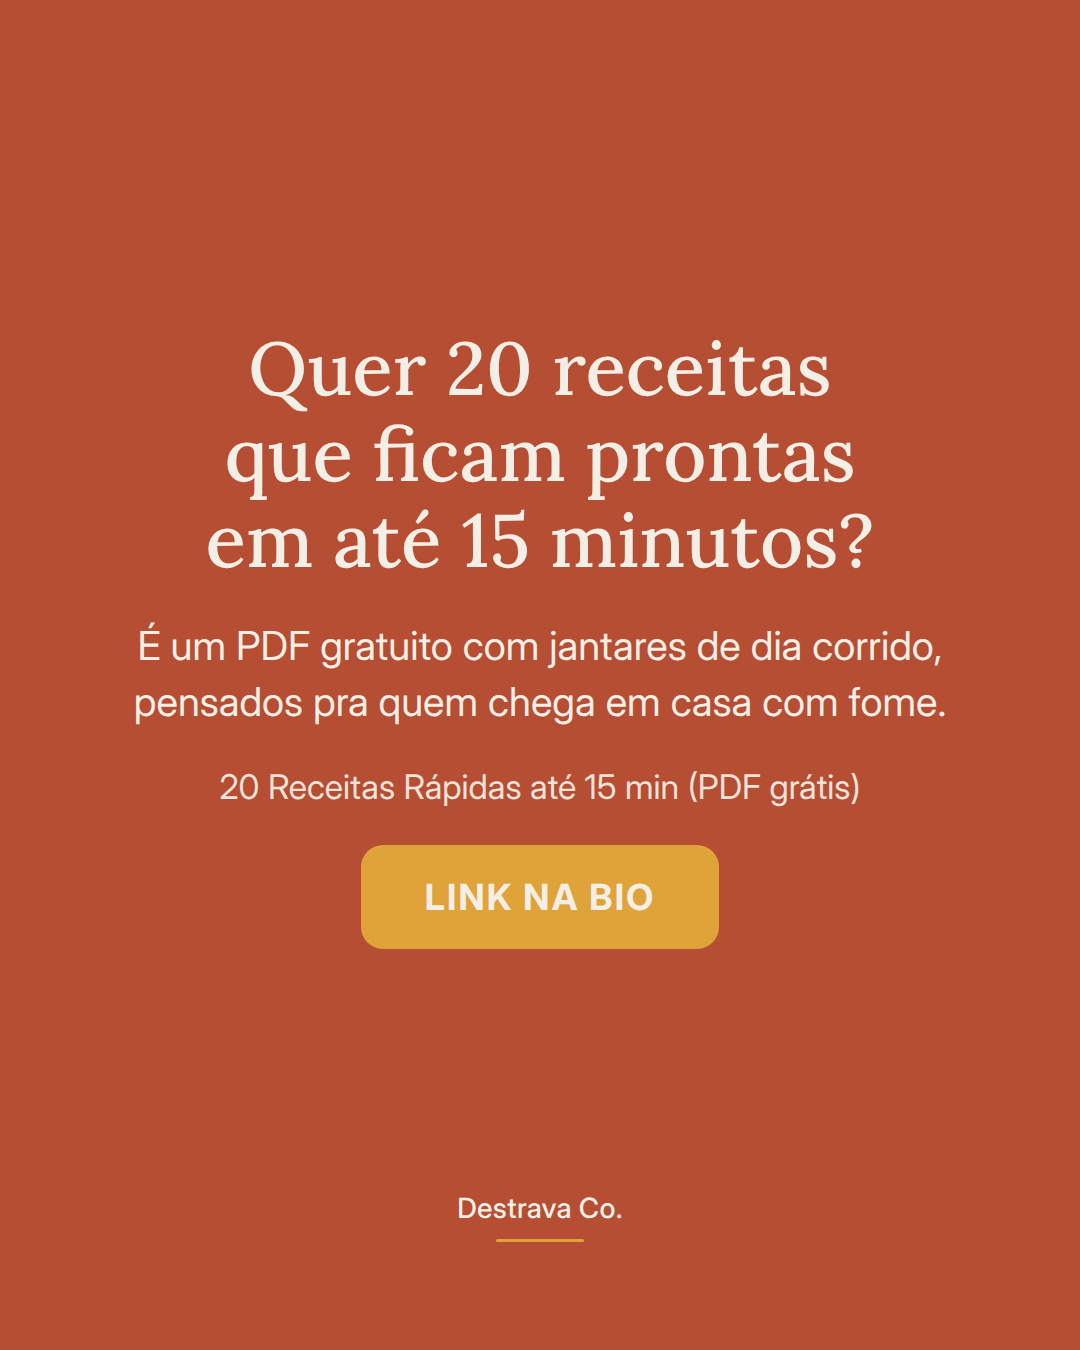
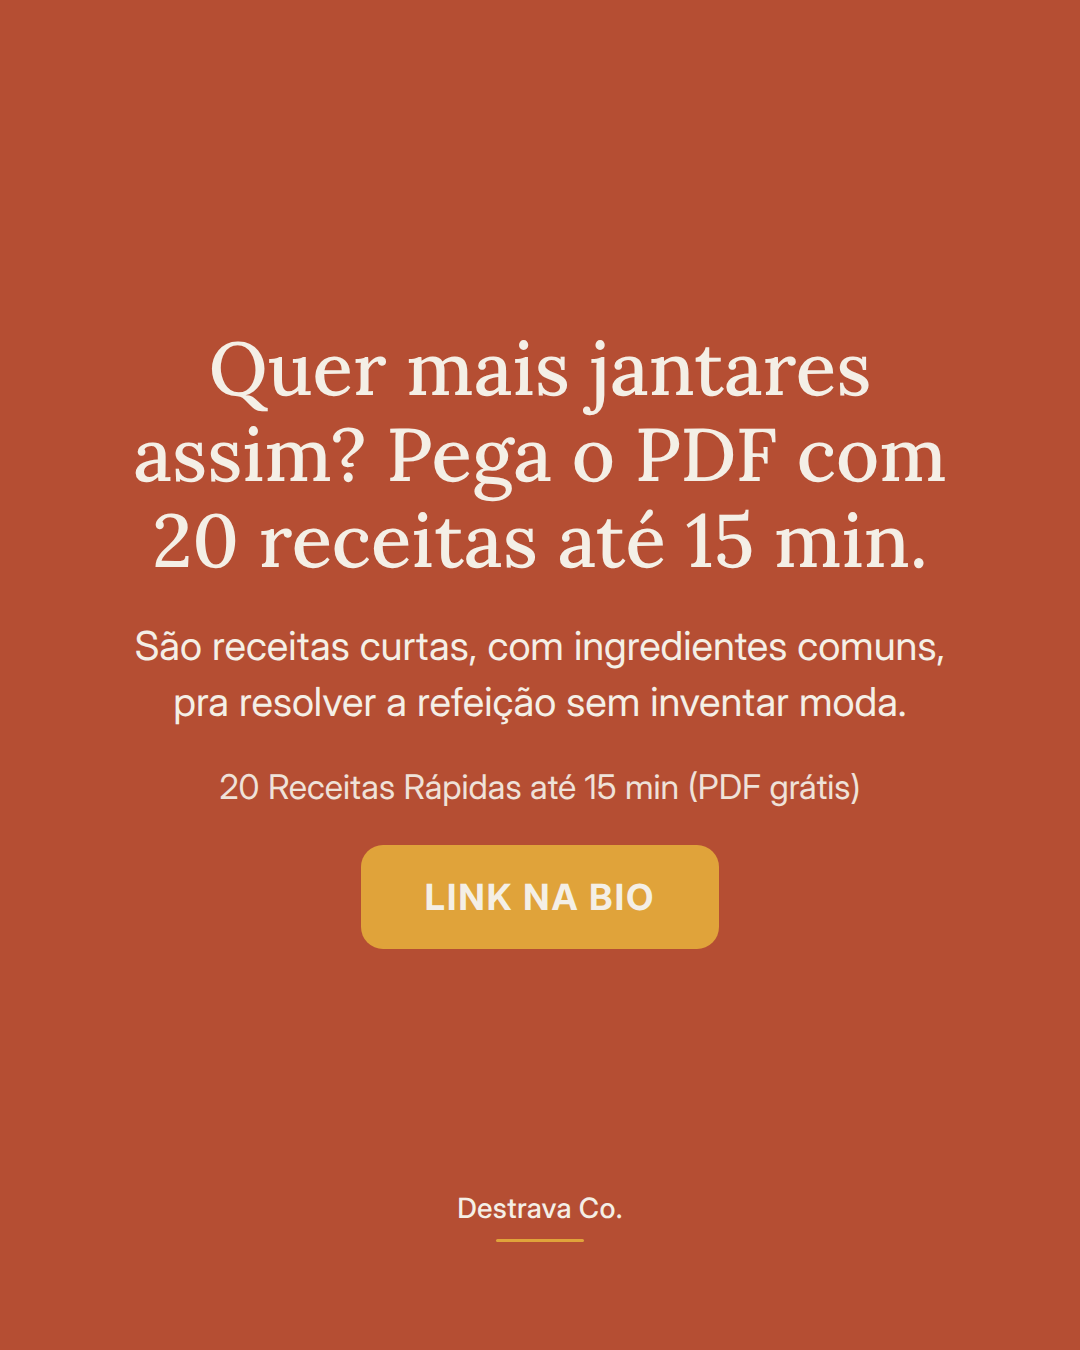
content: peças Instagram 2026_10_10

Changed region(s): [[0.1222, 0.2489, 0.8861, 0.4356], [0.1222, 0.4667, 0.8861, 0.5289]]

diff --git a/public/content/2026_10_10/index.html b/public/content/2026_10_10/index.html
@@ -19,23 +19,24 @@
 </head>
 <body>
 <h1>Cozinha · capa B (wash2)</h1>
-<div class="meta">2026-10-10 · gerado em 2026-10-10T16:27:25 · sticker sugerido nos Stories: quiz</div>
+<div class="meta">2026-10-10 · gerado em 2026-10-10T16:33:30 · sticker sugerido nos Stories: quiz</div>
 <h2>Carrossel</h2>
-<div class="strip"><img src="2026_10_10_-_Carrossel_Cozinha_01.png" alt="Fundo wash2 da linha Cozinha com foto de prato finalizado e título em campo sobre os últimos 30 segundos do jantar." title="2026_10_10_-_Carrossel_Cozinha_01.png"><img src="2026_10_10_-_Carrossel_Cozinha_02.png" alt="Fundo wash1 bem claro com título no campo profundo sobre usar limão ou vinagre no fim do preparo." title="2026_10_10_-_Carrossel_Cozinha_02.png"><img src="2026_10_10_-_Carrossel_Cozinha_03.png" alt="Fundo wash1 bem claro com título no campo profundo sobre acrescentar gordura depois de desligar o fogo." title="2026_10_10_-_Carrossel_Cozinha_03.png"><img src="2026_10_10_-_Carrossel_Cozinha_04.png" alt="Fundo wash1 bem claro com título no campo profundo e lista de três opções crocantes para finalizar o prato." title="2026_10_10_-_Carrossel_Cozinha_04.png"><img src="2026_10_10_-_Carrossel_Cozinha_05.png" alt="Fundo campo profundo com texto creme convidando a baixar o PDF e botão no tom de acento." title="2026_10_10_-_Carrossel_Cozinha_05.png"></div>
+<div class="strip"><img src="2026_10_10_-_Carrossel_Cozinha_01.png" alt="Lâmina de capa com foto de ovo frito sobre arroz em fundo wash2 da linha, com o título em campo escrito sobre a imagem." title="2026_10_10_-_Carrossel_Cozinha_01.png"><img src="2026_10_10_-_Carrossel_Cozinha_02.png" alt="Lâmina de fundo wash1 bem claro com título em campo profundo e três sugestões de base com ovo por cima." title="2026_10_10_-_Carrossel_Cozinha_02.png"><img src="2026_10_10_-_Carrossel_Cozinha_03.png" alt="Lâmina de fundo wash1 bem claro com título em campo profundo explicando o ponto do ovo mexido cremoso." title="2026_10_10_-_Carrossel_Cozinha_03.png"><img src="2026_10_10_-_Carrossel_Cozinha_04.png" alt="Lâmina de fundo wash1 bem claro com título em campo profundo descrevendo a fritada feita com sobras na frigideira." title="2026_10_10_-_Carrossel_Cozinha_04.png"><img src="2026_10_10_-_Carrossel_Cozinha_05.png" alt="Lâmina de CTA com fundo campo profundo, texto em creme e botão no tom de acento convidando a pegar o PDF gratuito." title="2026_10_10_-_Carrossel_Cozinha_05.png"></div>
 <h2>Stories</h2>
-<div class="strip"><img class="story" src="2026_10_10_-_Stories_Cozinha_01.png" alt="Fundo wash2 da linha Cozinha com kicker e título em campo convidando a deslizar para o feed." title="2026_10_10_-_Stories_Cozinha_01.png"><img class="story" src="2026_10_10_-_Stories_Cozinha_02.png" alt="Stories em fundo terracota com convite ao e-book gratuito de 20 receitas rápidas e o endereço da página em destaque no chip mostarda." title="2026_10_10_-_Stories_Cozinha_02.png"></div>
+<div class="strip"><img class="story" src="2026_10_10_-_Stories_Cozinha_01.png" alt="Story com fundo wash2 da linha, kicker, título em campo e convite curto pra ver o carrossel no feed." title="2026_10_10_-_Stories_Cozinha_01.png"><img class="story" src="2026_10_10_-_Stories_Cozinha_02.png" alt="Stories em fundo terracota com convite ao e-book gratuito de 20 receitas rápidas e o endereço da página em destaque no chip mostarda." title="2026_10_10_-_Stories_Cozinha_02.png"></div>
 <div class="meta">1º · stories post do dia · <a href="2026_10_10_-_Stories_Cozinha_01.png" download="2026_10_10_-_Stories_Cozinha_01.png">⬇ baixar</a> · sticker de link → post do dia (permalink em publicado.json depois de publicar) · sticker extra sugerido: quiz</div><div class="meta">2º · stories oferta · <a href="2026_10_10_-_Stories_Cozinha_02.png" download="2026_10_10_-_Stories_Cozinha_02.png">⬇ baixar</a> · sticker de link → <a href="https://lp.destravaco.com.br/receitas-15min">https://lp.destravaco.com.br/receitas-15min</a></div>
 <div class="meta">Stories não vão pela API: baixe e poste no app colando o sticker de link.</div>
 <h2>Legenda</h2>
-<pre>Jantar rápido não fica sem graça por falta de receita, fica por falta de acabamento.
-São os últimos 30 segundos na panela que mudam o prato: um ácido, uma gordura e algo crocante.
+<pre>Jantar rápido com ovo resolve a noite em que não tem proteína pronta na geladeira.
 
-O ácido entra fora do fogo, gotas de limão ou um fio de vinagre, e o sabor acorda na hora. A gordura vem depois de desligar, azeite ou um pedacinho de manteiga, e o molho fica mais redondo. A crocância é o toque final: castanha picada, pão torrado esfarelado, cebolinha.
+Receita simples: uma base que já existe, arroz de ontem, macarrão ou legume refogado, e o ovo por cima pra fechar o prato.
 
-São três gestos de poucos segundos que funcionam em arroz com ovo, macarrão simples, legume refogado, sopa de pacote.
+O mexido fica cremoso quando sai do fogo antes de parecer pronto, porque a panela quente termina o ponto. E a fritada vira jantar inteiro com o que sobrou do almoço: legume picado, ovos batidos, tampa e seis minutos.
 
-Salva pra lembrar no próximo dia corrido e manda pra alguém que vive dizendo que cozinha mal. Se quiser a parte de baixo do prato pronta também, meu PDF com 20 receitas de até 15 minutos está te esperando na bio.
+Não é truque novo, é usar o que a cozinha já tem sem precisar de receita diferente todo dia.
 
-<span class="tags">#receitasrapidas #cozinhapratica #jantarpratico #comidadeverdade #praticidadenacozinha</span></pre>
+Salva pra lembrar no dia corrido e compartilha com quem sempre pergunta o que fazer de janta. Se quiser mais ideias curtas, o PDF com 20 receitas até 15 minutos está esperando por você.
+
+<span class="tags">#receitasrapidas #jantarpratico #cozinhapratica #comidadeverdade #receitasfaceis</span></pre>
 </body>
 </html>
